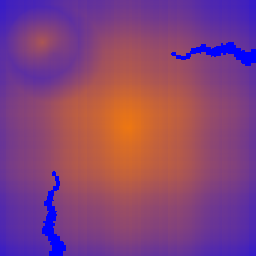
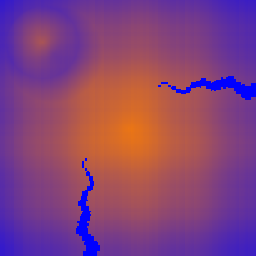
voroni generator advanced

diff --git a/voroni_generator.py b/voroni_generator.py
@@ -1,12 +1,24 @@
 import random
 import math
 import Image
+import tiles
 
 
 def generate_voronoi_diagram(size):
+    global start_x, start_y
+    start_x = 12
+    start_y = 12
+    global new_map
+    new_map = [[tiles.Tile(0,False)
+                for y in range(size)]
+               for x in range(size)]
+    tilemap = [[0
+                for y in range(size)]
+                for x in range(size)]
+
     width = size
     height = size
-    num_cells = size/2
+    num_cells = size/3
     img = Image.new( 'RGB', (width,height), "white")
     pixels = img.load() # create the pixel map
     imgx, imgy = img.size
@@ -15,6 +27,7 @@ def generate_voronoi_diagram(size):
     nr = []
     ng = []
     nb = []
+    nt = []
     for i in range(num_cells):
         rx = random.randrange(imgx)
         ry = random.randrange(imgy)
@@ -22,26 +35,31 @@ def generate_voronoi_diagram(size):
         ny.append(ry)
 
         distance = math.sqrt((rx - width / 2) ** 2 + (ry - height / 2) ** 2)
-        if size/2.0 > distance > size/2.5:
-        #if 64 < rx < width -64  and 64 < ry < width -64:
-            rb = random.randrange(5)
-            if rb == 1:
+        if distance > size/2.5:
+            nr.append(0)
+            ng.append(0)
+            nb.append(255)
+            nt.append(0)
+
+
+        elif size/2.5 > distance > size/3.2:
+            r = random.randrange(4)
+            if r == 0:
                 nr.append(0)
                 ng.append(0)
                 nb.append(255)
+                nt.append(0)
             else:
                 nr.append(255)
-                ng.append(255)
-                nb.append(0)
-        elif distance >= size/2.0:
-                nr.append(0)
                 ng.append(0)
-                nb.append(255)
-
+                nb.append(0)
+                nt.append(2)
         else:
             nr.append(255)
             ng.append(0)
             nb.append(0)
+            nt.append(2)
+
 
     for y in range(imgy):
         for x in range(imgx):
@@ -52,6 +70,89 @@ def generate_voronoi_diagram(size):
                 if d < dmin:
                     dmin = d
                     j = i
-            #putpixel((x, y), (nr[j], ng[j], nb[j]))
-            pixels[x,y] = (nr[j], ng[j], nb[j])
+            pixels[x,y] = (nt[j]*100, nt[j]*100, nt[j]*100)
+            tilemap[x][y] = nt[j]
     img.save('voroni_map.png')
+
+    #add sand in grass
+    for x in range(4,size-4):
+        for y in range(4,size-4):
+
+            val = tilemap[x][y]
+
+            if val == 0:
+                for xs in range(-3,3):
+                        for ys in range(-3,3):
+                            xt = x+xs
+                            yt = y+ys
+                            if tilemap[xt][yt] == 2:
+                                r = random.randrange(5)
+                                if r == 0:
+                                    tilemap[xt][yt] = 1
+    #add sand in water
+    for x in range(9,size-9):
+        for y in range(9,size-9):
+
+            val = tilemap[x][y]
+
+            if val == 2:
+                for xs in range(-9,9):
+                        for ys in range(-9,9):
+                            xt = x+xs
+                            yt = y+ys
+                            if tilemap[xt][yt] == 0:
+                                r = random.randrange(5)
+                                if r == 0:
+                                    tilemap[xt][yt] = 1
+
+    #smooth sand
+    for x in range(4,size-4):
+        for y in range(4,size-4):
+
+            counter = 0
+
+            if tilemap[x + 1][y] == 0:
+                counter+= 1
+            if tilemap[x -1][y] == 0:
+                counter+= 1
+            if tilemap[x][y + 1] == 0:
+                counter+= 1
+            if tilemap[x][y - 1] == 0:
+                counter+= 1
+
+            if counter > 2:
+                tilemap[x][y] = 0
+
+
+    for x in range(size):
+        for y in range(size):
+
+            tile_value = tilemap[x][y]
+
+            new_map[x][y].id = tile_value
+
+            if tile_value == 1:
+                start_x = x
+                start_y = y
+
+
+
+    img = Image.new( 'RGB', (size,size), "white")
+    pixels = img.load() # create the pixel map
+
+    for x in range(size):    # for every pixel:
+        for y in range(size):
+            if tilemap[x][y] == 0:
+                pixels[x,y] = (0,0,255)
+            elif tilemap[x][y] == 1:
+                pixels[x,y] = (255,255,0)
+            elif tilemap[x][y] == 2:
+                pixels[x,y] = (0,255,0)
+
+
+    img.save('tile_map.png')
+
+    return new_map
+
+def get_start_position():
+    return [start_x, start_y]

diff --git a/__init__.py b/__init__.py
@@ -161,13 +161,13 @@ objects = [player]
 
 # generate map (at this point it's not drawn to the screen)
 global map
-map = island_generator.make_map(MAP_SIZE)
-voroni.generate_voronoi_diagram(512)
+#map = island_generator.make_map(MAP_SIZE)
+map = voroni.generate_voronoi_diagram(1024)
 #biome_generator.make_map(MAP_SIZE)
 
 
-player.x = island_generator.get_start_position()[0]
-player.y = island_generator.get_start_position()[1]
+player.x = voroni.get_start_position()[0]
+player.y = voroni.get_start_position()[1]
 
 make_visual_map()
 
